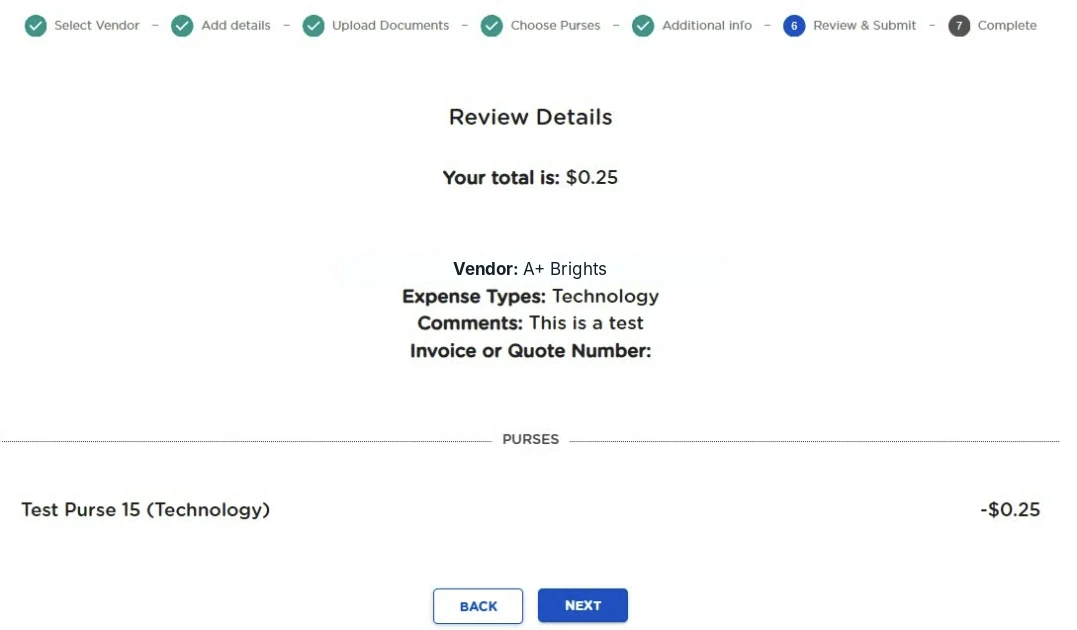
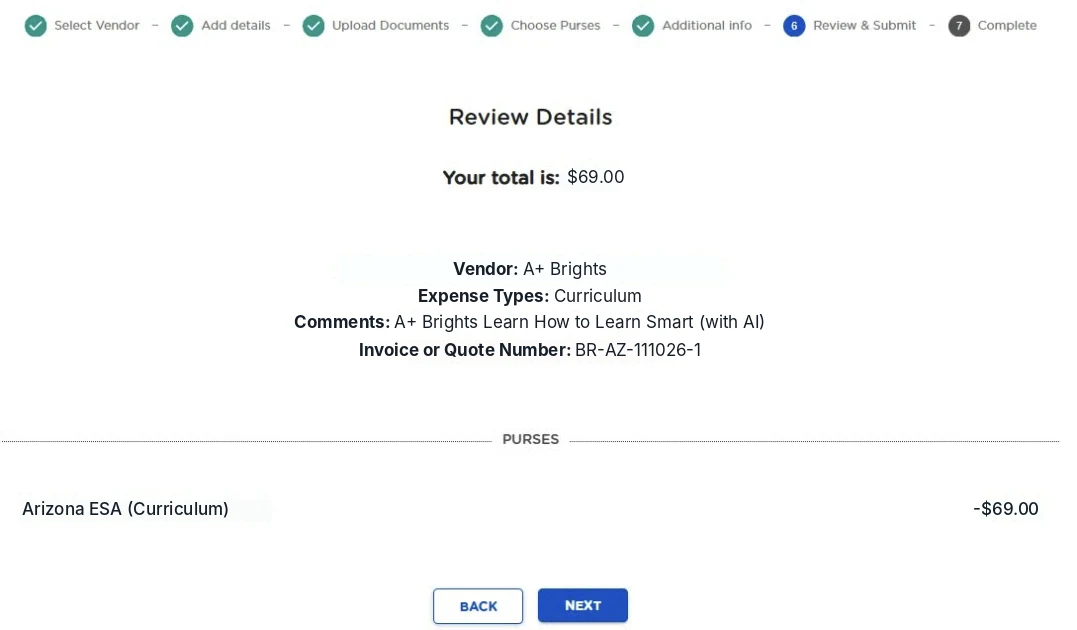
AZ ClassWallet guide: Curriculum category, $69 in screenshots, What happens next, compact help; invoice access instead of service period
Claude-Session: https://claude.ai/code/session_01B1geoaUQxw5WqbYHax5XU1

diff --git a/aplus/main/arizona-esa-classwallet.html b/aplus/main/arizona-esa-classwallet.html
@@ -76,9 +76,6 @@
 
     <section class="cw-section" id="steps">
       <div class="container">
-        <h2>Step by step in ClassWallet</h2>
-        <p class="serif">Screenshots are from ClassWallet’s official guide “How to Pay a Vendor”. We changed the vendor name in them to A+ Brights, our name in ClassWallet. Amounts are test values: in your account you’ll enter the total from your invoice.</p>
-
         <ol class="cw-steps">
           <li class="cw-step">
             <div class="cw-step-text">
@@ -137,7 +134,7 @@
               <span class="cw-num">5</span>
               <h3>Choose the purse and expense category</h3>
               <p>Tick your <b>Arizona ESA</b> purse. It covers the full total.</p>
-              <p>If ClassWallet asks for an expense category, choose the one printed on your Brights invoice. Click <b>NEXT</b>.</p>
+              <p>For the expense category, choose <b>Curriculum</b>. Click <b>NEXT</b>.</p>
             </div>
             <div class="cw-shots">
               <figure class="cw-shot"><img src="/main/img/classwallet/7.webp" width="1134" height="595" loading="lazy" alt="ClassWallet Choose Purses step"></figure>
@@ -162,7 +159,6 @@
               <span class="cw-num">7</span>
               <h3>Review and submit</h3>
               <p>Check the vendor, total, category and invoice number, then click <b>NEXT</b>. You’ll see “Submitted!”, and ClassWallet emails you when the order is approved.</p>
-              <p>Once the payment is approved, we open the course for your student and let you know.</p>
             </div>
             <div class="cw-shots">
               <figure class="cw-shot"><img src="/main/img/classwallet/10.webp" width="1077" height="630" loading="lazy" alt="ClassWallet Review Details step"></figure>
@@ -171,7 +167,16 @@
           </li>
         </ol>
 
-        <p class="cw-credit">Screenshots: ClassWallet, <a href="https://classwallet.my.site.com/classwallet/s/article/How-to-pay-a-vendor" target="_blank" rel="noopener">How to Pay a Vendor</a>. ClassWallet support: (877) 969-5536, help@classwallet.com. <a href="https://www.azed.gov/esa/classwallet" target="_blank" rel="noopener">Arizona Department of Education: ClassWallet information</a>.</p>
+        <div class="cw-next">
+          <h2>What happens next</h2>
+          <ol class="cw-next-list">
+            <li><b>ClassWallet approves the payment.</b> You’ll get an email from ClassWallet once the order is approved.</li>
+            <li><b>We send you a few questions.</b> About you and your child, so we can personalize the course.</li>
+            <li><b>Your child’s personalized course arrives.</b> We prepare it and send it to you within 5 days.</li>
+          </ol>
+        </div>
+
+        <p class="cw-credit">Screenshots: ClassWallet, <a href="https://classwallet.my.site.com/classwallet/s/article/How-to-pay-a-vendor" target="_blank" rel="noopener">How to Pay a Vendor</a> (vendor name, amounts and categories shown for this example). ClassWallet support: (877) 969-5536, help@classwallet.com. <a href="https://www.azed.gov/esa/classwallet" target="_blank" rel="noopener">Arizona Department of Education: ClassWallet information</a>.</p>
       </div>
     </section>
 
@@ -188,8 +193,7 @@
               <li>Unique invoice number and invoice date</li>
               <li>Parent (ESA account holder) and the student’s full name</li>
               <li>The course, price and the total amount due</li>
-              <li>Service period dates</li>
-              <li>One invoice per student</li>
+                            <li>One invoice per student</li>
             </ul>
           </div>
         </div>
@@ -200,25 +204,9 @@
 
     <section class="cw-section">
       <div class="container">
-        <h2>Good to know</h2>
-        <div class="cw-grid">
-          <div class="cw-card warn">
-            <h3>Before you submit</h3>
-            <ul>
-              <li>The payment amount must match the invoice total</li>
-              <li>One invoice per student, paid from that student’s ESA account</li>
-              <li>Orders over $2,000 are reviewed by hand, so approval can take longer</li>
-              <li>To cancel an order, call ClassWallet at (877) 969-5536 within 36 hours of submitting</li>
-            </ul>
-          </div>
-          <div class="cw-card">
-            <h3>Need help?</h3>
-            <ul>
-              <li>Questions about the invoice or the course: <a href="mailto:team@aplusbrights.com">team@aplusbrights.com</a></li>
-              <li>Questions about your ClassWallet account: (877) 969-5536, help@classwallet.com</li>
-              <li>Questions about the ESA program: ESACallCenter@azed.gov, (602) 364-1969</li>
-            </ul>
-          </div>
+        <div class="cw-help">
+          <h2>Need help?</h2>
+          <p>Invoice or course: <a href="mailto:team@aplusbrights.com">team@aplusbrights.com</a> · ClassWallet account: (877) 969-5536 · ESA program: ESACallCenter@azed.gov, (602) 364-1969</p>
         </div>
       </div>
     </section>

diff --git a/study/main/arizona-esa-classwallet.html b/study/main/arizona-esa-classwallet.html
@@ -76,9 +76,6 @@
 
     <section class="cw-section" id="steps">
       <div class="container">
-        <h2>Step by step in ClassWallet</h2>
-        <p class="serif">Screenshots are from ClassWallet’s official guide “How to Pay a Vendor”. We changed the vendor name in them to A+ Brights, our name in ClassWallet. Amounts are test values: in your account you’ll enter the total from your invoice.</p>
-
         <ol class="cw-steps">
           <li class="cw-step">
             <div class="cw-step-text">
@@ -137,7 +134,7 @@
               <span class="cw-num">5</span>
               <h3>Choose the purse and expense category</h3>
               <p>Tick your <b>Arizona ESA</b> purse. It covers the full total.</p>
-              <p>If ClassWallet asks for an expense category, choose the one printed on your Brights invoice. Click <b>NEXT</b>.</p>
+              <p>For the expense category, choose <b>Curriculum</b>. Click <b>NEXT</b>.</p>
             </div>
             <div class="cw-shots">
               <figure class="cw-shot"><img src="/main/img/classwallet/7.webp" width="1134" height="595" loading="lazy" alt="ClassWallet Choose Purses step"></figure>
@@ -162,7 +159,6 @@
               <span class="cw-num">7</span>
               <h3>Review and submit</h3>
               <p>Check the vendor, total, category and invoice number, then click <b>NEXT</b>. You’ll see “Submitted!”, and ClassWallet emails you when the order is approved.</p>
-              <p>Once the payment is approved, we open the course for your student and let you know.</p>
             </div>
             <div class="cw-shots">
               <figure class="cw-shot"><img src="/main/img/classwallet/10.webp" width="1077" height="630" loading="lazy" alt="ClassWallet Review Details step"></figure>
@@ -171,7 +167,16 @@
           </li>
         </ol>
 
-        <p class="cw-credit">Screenshots: ClassWallet, <a href="https://classwallet.my.site.com/classwallet/s/article/How-to-pay-a-vendor" target="_blank" rel="noopener">How to Pay a Vendor</a>. ClassWallet support: (877) 969-5536, help@classwallet.com. <a href="https://www.azed.gov/esa/classwallet" target="_blank" rel="noopener">Arizona Department of Education: ClassWallet information</a>.</p>
+        <div class="cw-next">
+          <h2>What happens next</h2>
+          <ol class="cw-next-list">
+            <li><b>ClassWallet approves the payment.</b> You’ll get an email from ClassWallet once the order is approved.</li>
+            <li><b>We send you a few questions.</b> About you and your child, so we can personalize the course.</li>
+            <li><b>Your child’s personalized course arrives.</b> We prepare it and send it to you within 5 days.</li>
+          </ol>
+        </div>
+
+        <p class="cw-credit">Screenshots: ClassWallet, <a href="https://classwallet.my.site.com/classwallet/s/article/How-to-pay-a-vendor" target="_blank" rel="noopener">How to Pay a Vendor</a> (vendor name, amounts and categories shown for this example). ClassWallet support: (877) 969-5536, help@classwallet.com. <a href="https://www.azed.gov/esa/classwallet" target="_blank" rel="noopener">Arizona Department of Education: ClassWallet information</a>.</p>
       </div>
     </section>
 
@@ -188,8 +193,7 @@
               <li>Unique invoice number and invoice date</li>
               <li>Parent (ESA account holder) and the student’s full name</li>
               <li>The course, price and the total amount due</li>
-              <li>Service period dates</li>
-              <li>One invoice per student</li>
+                            <li>One invoice per student</li>
             </ul>
           </div>
         </div>
@@ -200,25 +204,9 @@
 
     <section class="cw-section">
       <div class="container">
-        <h2>Good to know</h2>
-        <div class="cw-grid">
-          <div class="cw-card warn">
-            <h3>Before you submit</h3>
-            <ul>
-              <li>The payment amount must match the invoice total</li>
-              <li>One invoice per student, paid from that student’s ESA account</li>
-              <li>Orders over $2,000 are reviewed by hand, so approval can take longer</li>
-              <li>To cancel an order, call ClassWallet at (877) 969-5536 within 36 hours of submitting</li>
-            </ul>
-          </div>
-          <div class="cw-card">
-            <h3>Need help?</h3>
-            <ul>
-              <li>Questions about the invoice or the course: <a href="mailto:team@aplusbrights.com">team@aplusbrights.com</a></li>
-              <li>Questions about your ClassWallet account: (877) 969-5536, help@classwallet.com</li>
-              <li>Questions about the ESA program: ESACallCenter@azed.gov, (602) 364-1969</li>
-            </ul>
-          </div>
+        <div class="cw-help">
+          <h2>Need help?</h2>
+          <p>Invoice or course: <a href="mailto:team@aplusbrights.com">team@aplusbrights.com</a> · ClassWallet account: (877) 969-5536 · ESA program: ESACallCenter@azed.gov, (602) 364-1969</p>
         </div>
       </div>
     </section>

diff --git a/aplus/main/css/classwallet.css b/aplus/main/css/classwallet.css
@@ -97,3 +97,12 @@
 .cw-form[hidden], .cw-done[hidden] { display: none; }
 .cw-catalog-link { display: inline-block; margin-top: 8px; font-size: 13px; color: var(--ink-60); text-decoration: underline; text-decoration-color: var(--surface-strong); text-underline-offset: 3px; }
 .cw-catalog-link:hover { color: var(--ink); }
+.cw-next { margin-top: 40px; padding: 32px; border-radius: var(--radius-md); background: var(--page-alt); }
+.cw-next-list { list-style: none; counter-reset: nx; display: grid; grid-template-columns: repeat(3, minmax(0, 1fr)); gap: 20px; margin-top: 20px; }
+.cw-next-list li { counter-increment: nx; position: relative; padding-top: 44px; color: var(--ink-70); line-height: 1.5; }
+.cw-next-list li::before { content: counter(nx); position: absolute; top: 0; left: 0; width: 32px; height: 32px; border-radius: 50%; background: var(--ink); color: #fff; font-weight: 700; font-size: 14px; display: flex; align-items: center; justify-content: center; }
+.cw-next-list b { display: block; color: var(--ink); margin-bottom: 4px; }
+.cw-help h2 { font-size: 22px; margin-bottom: 8px; }
+.cw-help p { color: var(--ink-70); line-height: 1.6; font-size: 15px; }
+.cw-help a { color: var(--link); }
+@media (max-width: 860px) { .cw-next-list { grid-template-columns: 1fr; } .cw-next { padding: 22px; } }

diff --git a/study/main/css/classwallet.css b/study/main/css/classwallet.css
@@ -97,3 +97,12 @@
 .cw-form[hidden], .cw-done[hidden] { display: none; }
 .cw-catalog-link { display: inline-block; margin-top: 8px; font-size: 13px; color: var(--ink-60); text-decoration: underline; text-decoration-color: var(--surface-strong); text-underline-offset: 3px; }
 .cw-catalog-link:hover { color: var(--ink); }
+.cw-next { margin-top: 40px; padding: 32px; border-radius: var(--radius-md); background: var(--page-alt); }
+.cw-next-list { list-style: none; counter-reset: nx; display: grid; grid-template-columns: repeat(3, minmax(0, 1fr)); gap: 20px; margin-top: 20px; }
+.cw-next-list li { counter-increment: nx; position: relative; padding-top: 44px; color: var(--ink-70); line-height: 1.5; }
+.cw-next-list li::before { content: counter(nx); position: absolute; top: 0; left: 0; width: 32px; height: 32px; border-radius: 50%; background: var(--ink); color: #fff; font-weight: 700; font-size: 14px; display: flex; align-items: center; justify-content: center; }
+.cw-next-list b { display: block; color: var(--ink); margin-bottom: 4px; }
+.cw-help h2 { font-size: 22px; margin-bottom: 8px; }
+.cw-help p { color: var(--ink-70); line-height: 1.6; font-size: 15px; }
+.cw-help a { color: var(--link); }
+@media (max-width: 860px) { .cw-next-list { grid-template-columns: 1fr; } .cw-next { padding: 22px; } }

diff --git a/aplus/main/js/invoice-generator.js b/aplus/main/js/invoice-generator.js
@@ -190,7 +190,7 @@
     var meta = [
       ['Invoice number', inv.number],
       ['Invoice date', longDate(inv.date)],
-      ['Service period', inv.period],
+      ['Access', 'From order approval, no end date'],
       ['Amount due', money(inv.total)],
       ['Pay with', state.platform]
     ];
@@ -515,7 +515,6 @@
               var inv = {
                 number: (data.invoices && data.invoices[idx] && data.invoices[idx].number) || ('BR-' + state.code + '-' + Date.now()),
                 date: now,
-                period: servicePeriod(s.pkgObj, now),
                 parent: first.value.trim() + ' ' + last.value.trim(),
                 email: email.value.trim(),
                 phone: phone.value.trim(),

diff --git a/study/main/js/invoice-generator.js b/study/main/js/invoice-generator.js
@@ -190,7 +190,7 @@
     var meta = [
       ['Invoice number', inv.number],
       ['Invoice date', longDate(inv.date)],
-      ['Service period', inv.period],
+      ['Access', 'From order approval, no end date'],
       ['Amount due', money(inv.total)],
       ['Pay with', state.platform]
     ];
@@ -515,7 +515,6 @@
               var inv = {
                 number: (data.invoices && data.invoices[idx] && data.invoices[idx].number) || ('BR-' + state.code + '-' + Date.now()),
                 date: now,
-                period: servicePeriod(s.pkgObj, now),
                 parent: first.value.trim() + ' ' + last.value.trim(),
                 email: email.value.trim(),
                 phone: phone.value.trim(),

diff --git a/aplus/main/invoice.html b/aplus/main/invoice.html
@@ -74,7 +74,7 @@
           <h1>Create your ESA invoice</h1>
           <p class="serif">Pay for A+ Brights courses with your ESA. Fill this in and you get a PDF invoice right away (one per child), ready to upload to your ESA payment platform.</p>
           <ul class="ig-page-list">
-            <li>One invoice per student, with the vendor, student, course, service period and total due</li>
+            <li>One invoice per student, with the vendor, student, course and total due</li>
             <li>The invoice explains how to pay it, step by step</li>
             <li>Arizona (ClassWallet): <a href="/main/arizona-esa-classwallet.html">full guide with screenshots</a></li>
           </ul>

diff --git a/study/main/invoice.html b/study/main/invoice.html
@@ -74,7 +74,7 @@
           <h1>Create your ESA invoice</h1>
           <p class="serif">Pay for A+ Brights courses with your ESA. Fill this in and you get a PDF invoice right away (one per child), ready to upload to your ESA payment platform.</p>
           <ul class="ig-page-list">
-            <li>One invoice per student, with the vendor, student, course, service period and total due</li>
+            <li>One invoice per student, with the vendor, student, course and total due</li>
             <li>The invoice explains how to pay it, step by step</li>
             <li>Arizona (ClassWallet): <a href="/main/arizona-esa-classwallet.html">full guide with screenshots</a></li>
           </ul>
